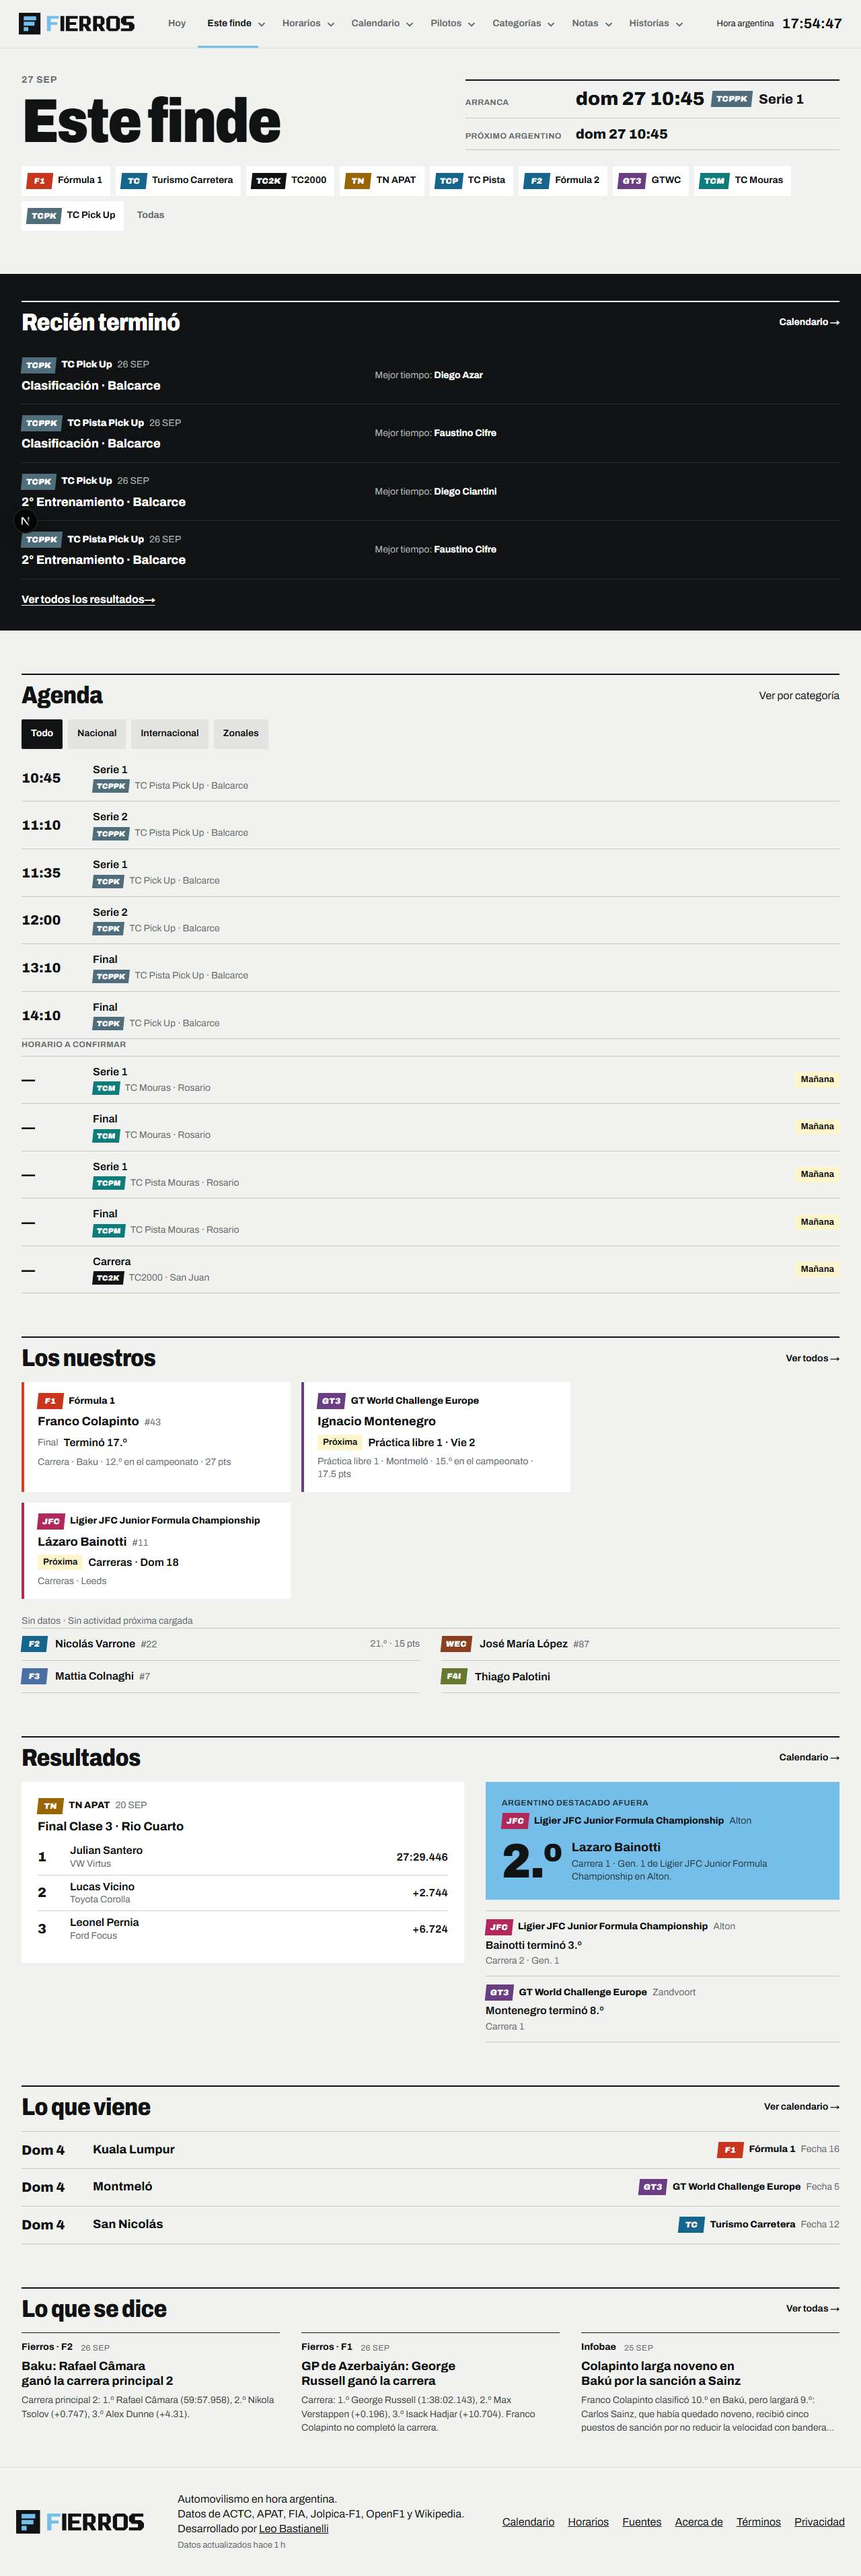
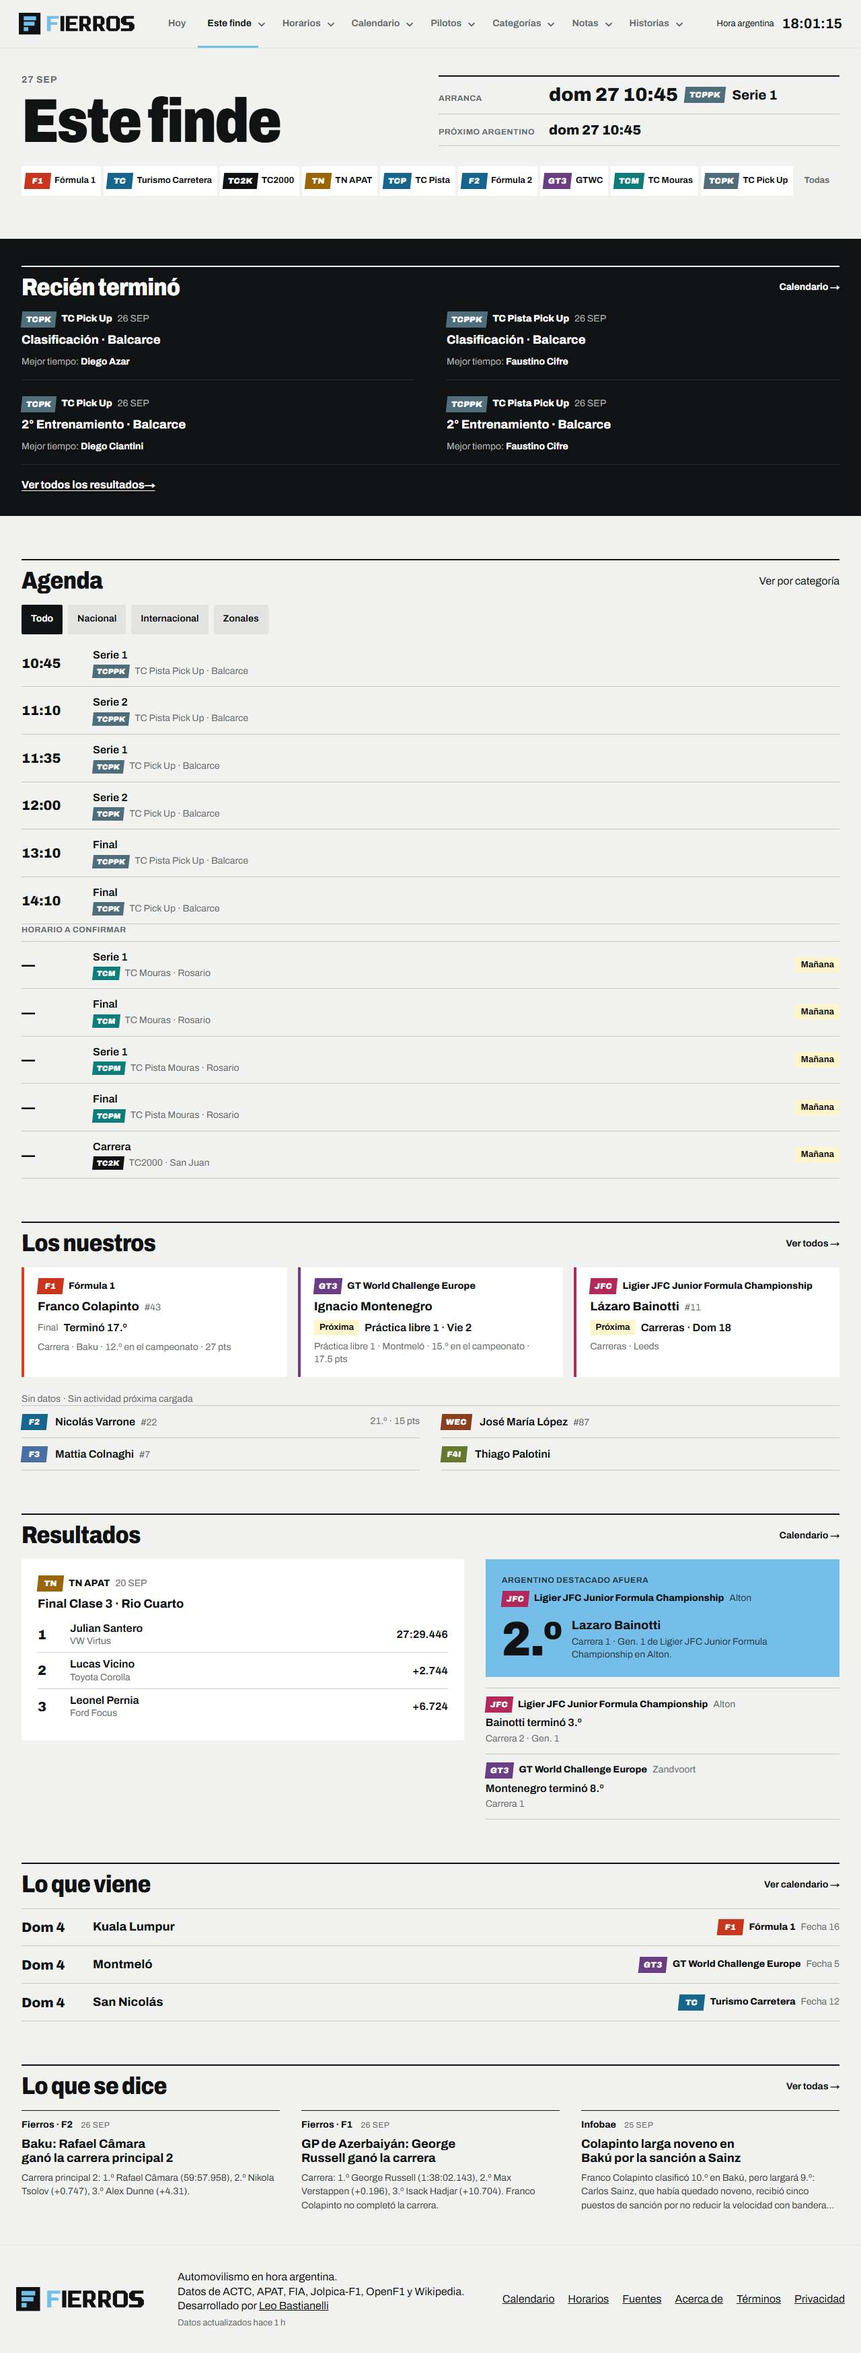
home: En vivo con cabecera roja, portada en grilla de 12 columnas, atajos en una línea, tarjetas que llenan la fila y banda en 2 columnas

diff --git a/src/app/home.css b/src/app/home.css
@@ -204,15 +204,22 @@ a.home-more::after {
 .home-head-grid {
   display: grid;
   gap: 24px;
-  align-items: end;
+  align-items: start;
 }
 @media (min-width: 801px) {
   .home-head {
     padding-top: 40px;
   }
   .home-head-grid {
-    grid-template-columns: minmax(0, 1.1fr) minmax(0, 1fr);
-    gap: 48px;
+    grid-template-columns: repeat(12, minmax(0, 1fr));
+    column-gap: 24px;
+    align-items: start;
+  }
+  .home-head-grid > h1 {
+    grid-column: 1 / span 6;
+  }
+  .home-head-grid > .home-moment {
+    grid-column: 7 / span 6;
   }
 }
 .home h1 {
@@ -284,30 +291,28 @@ a.home-more::after {
   font-size: 20px;
   font-weight: 750;
 }
-.home-moment li.is-live {
-  border-left: 8px solid var(--red);
-  padding-left: 12px;
-  background: var(--white);
-}
-.home-moment li.is-live .home-eyebrow {
-  color: var(--ink);
-}
 
 /* Atajos a categorías */
 .home-jump {
   display: flex;
-  flex-wrap: wrap;
-  gap: 8px;
+  flex-wrap: nowrap;
+  gap: 4px;
+  overflow-x: auto;
+  scrollbar-width: none;
   padding-top: 24px;
+}
+.home-jump::-webkit-scrollbar {
+  display: none;
 }
 .home-jump a {
   display: inline-flex;
   align-items: center;
-  gap: 8px;
+  flex: none;
+  gap: 6px;
   min-height: 44px;
-  padding: 0 12px 0 8px;
+  padding: 0 8px 0 5px;
   background: var(--white);
-  font-size: 14px;
+  font-size: 13px;
   font-weight: 700;
   white-space: nowrap;
   transition:
@@ -346,37 +351,55 @@ a.home-more::after {
 }
 
 /* ——— En vivo ——— */
-.home-dot {
-  width: 12px;
-  height: 12px;
-  border-radius: 50%;
+/* Cabecera sólida en rojo: "En vivo" y los minutos en blanco, texto grande (≥24px, 900), que exige 3:1 (blanco sobre --red: 4.41). */
+.home-live-flag {
+  display: flex;
+  align-items: center;
+  justify-content: space-between;
+  gap: 16px;
+  padding: 12px 16px;
   background: var(--red);
-  flex: none;
+  color: #fff;
+}
+.home-live-flag h2 {
+  font-size: 32px;
+  font-weight: 900;
+  font-stretch: 85%;
+  line-height: 1;
+  letter-spacing: -0.02em;
 }
 .home-live-min {
-  font-size: 28px;
-  font-weight: 850;
+  font-size: 32px;
+  font-weight: 900;
   line-height: 1;
 }
-.home-live {
+@media (min-width: 801px) {
+  .home-live-flag {
+    padding: 16px 24px;
+  }
+  .home-live-flag h2,
+  .home-live-min {
+    font-size: 44px;
+  }
+}
+.home-live-body {
   display: grid;
   background: var(--white);
-  border-left: 8px solid var(--red);
 }
-.home-live > div {
+.home-live-body > div {
   padding: 16px;
 }
-.home-live > div + div {
+.home-live-body > div + div {
   border-top: 1px solid var(--rule-strong);
 }
 @media (min-width: 801px) {
-  .home-live {
+  .home-live-body {
     grid-template-columns: minmax(0, 1.25fr) minmax(0, 1fr) minmax(0, 0.9fr);
   }
-  .home-live > div {
+  .home-live-body > div {
     padding: 24px;
   }
-  .home-live > div + div {
+  .home-live-body > div + div {
     border-top: 0;
     border-left: 1px solid var(--rule-strong);
   }
@@ -474,7 +497,6 @@ a.home-more::after {
   gap: 4px 20px;
   padding: 8px 16px;
   background: var(--white);
-  border-left: 8px solid var(--red);
   border-top: 1px solid var(--rule-strong);
   font-size: 14px;
 }
@@ -507,7 +529,7 @@ a.home-more::after {
 }
 @media (min-width: 801px) {
   .home-runner-grid {
-    grid-template-columns: repeat(auto-fit, minmax(268px, 400px));
+    grid-template-columns: repeat(auto-fit, minmax(300px, 1fr));
   }
 }
 .home-runner {
@@ -651,17 +673,23 @@ a.home-more::after {
   padding-top: 0;
 }
 @media (min-width: 801px) {
-  .home-recent-item {
-    grid-template-columns: minmax(0, 1fr) minmax(0, 1.4fr);
+  .home-recent {
+    display: grid;
+    grid-template-columns: repeat(2, minmax(0, 1fr));
+    column-gap: 48px;
     align-items: start;
-    padding-block: 24px;
+  }
+  .home-recent-item {
+    align-content: start;
+    gap: 12px;
+    padding-block: 24px 16px;
+  }
+  .home-recent-item:nth-child(2) {
+    border-top: 0;
+    padding-top: 0;
   }
   .home-recent-item:first-child {
-    padding-top: 8px;
-  }
-  .home-recent-item.is-compact {
-    align-items: center;
-    padding-block: 16px;
+    padding-top: 0;
   }
 }
 .home-recent-head {

diff --git a/src/app/page.tsx b/src/app/page.tsx
@@ -160,21 +160,15 @@ export default async function Home() {
   // ——— Secciones ———
   const sections: Record<Exclude<SectionId, "notas">, ReactNode> = {
     live: live && (
-      <div key="live" className="home-section home-live-wrap">
-        <HTitle
-          id="live-title"
-          title={
-            <>
-              <span className="home-dot" aria-hidden="true" />
-              En vivo
-            </>
-          }
-        >
-          <span className="home-live-min">
-            <MinutesLeft endsAt={liveEnd(live.session)} serverNow={now} simulated={simulated} />′
-          </span>
-        </HTitle>
-        <div className="home-live" role="group" aria-labelledby="live-title">
+      <section key="live" className="home-section home-live-wrap" aria-labelledby="live-title">
+        <div className="home-live">
+          <div className="home-live-flag">
+            <h2 id="live-title">En vivo</h2>
+            <span className="home-live-min">
+              <MinutesLeft endsAt={liveEnd(live.session)} serverNow={now} simulated={simulated} />′
+            </span>
+          </div>
+          <div className="home-live-body">
           <div className="home-live-main">
             <HLabel series={live.series} detail={live.event.circuit.city} href={`/categorias/${live.series.id}`} />
             <p className="home-live-name">{live.session.name}</p>
@@ -213,6 +207,7 @@ export default async function Home() {
               </Link>
             )}
           </div>
+          </div>
         </div>
         {liveNow.length > 1 && (
           <p className="home-also-live">
@@ -224,7 +219,7 @@ export default async function Home() {
             ))}
           </p>
         )}
-      </div>
+      </section>
     ),
 
     nuestros:

diff --git a/docs/plan-estetica/02-home-rediseno.md b/docs/plan-estetica/02-home-rediseno.md
@@ -75,3 +75,12 @@ Sellos (blanco sobre el fondo): F1 5.21, TN 4.96, F4I 4.84 (los demás, de 5.0 a
 - Reemplazar `series.color` por la tinta ajustada en el resto del sitio.
 - Vista móvil real en iOS (verificar `font-stretch` en Safari); capturas con banner de cookies visible; menú móvil abierto.
 - Estado de error/vacío de "Recién terminó" (hoy simplemente no se dibuja, como antes).
+
+## Segunda pasada
+
+- **En vivo:** cabecera sólida en `--red` de ancho completo del bloque, con "En vivo" y los minutos en blanco, 900, tabular (32px en celular, 44px en escritorio). Blanco sobre `--red` da 4.41:1; al ser texto grande (≥24px bold) exige 3:1 y pasa. En la portada, la fila "En vivo" es una fila más del momento, sin caja ni borde.
+- **Portada en 1280:** grilla de 12 columnas (título en 1–6, momento en 7–12, alineados por arriba). Los atajos de categoría van en una sola línea (sin partirse; con scroll horizontal si no entran).
+- **Los nuestros:** `repeat(auto-fit, minmax(300px, 1fr))`: la fila siempre se llena.
+- **Recién terminó en 1280:** 2 columnas de ítems, cada uno con su podio o línea debajo; orden cronológico por filas.
+- Capturas con `devIndicators` apagado sólo durante la captura (el indicador "N" de Next dev ya no tapa contenido); no se commiteó el cambio de configuración.
+- Alturas después, 375 / 1280: midweek 3788 / 2449, weekend 5091 / 3498, results 3686 / 2423, live 5729 / 3880. Contraste: 0 fallas en los 4 modos por 2 anchos.
